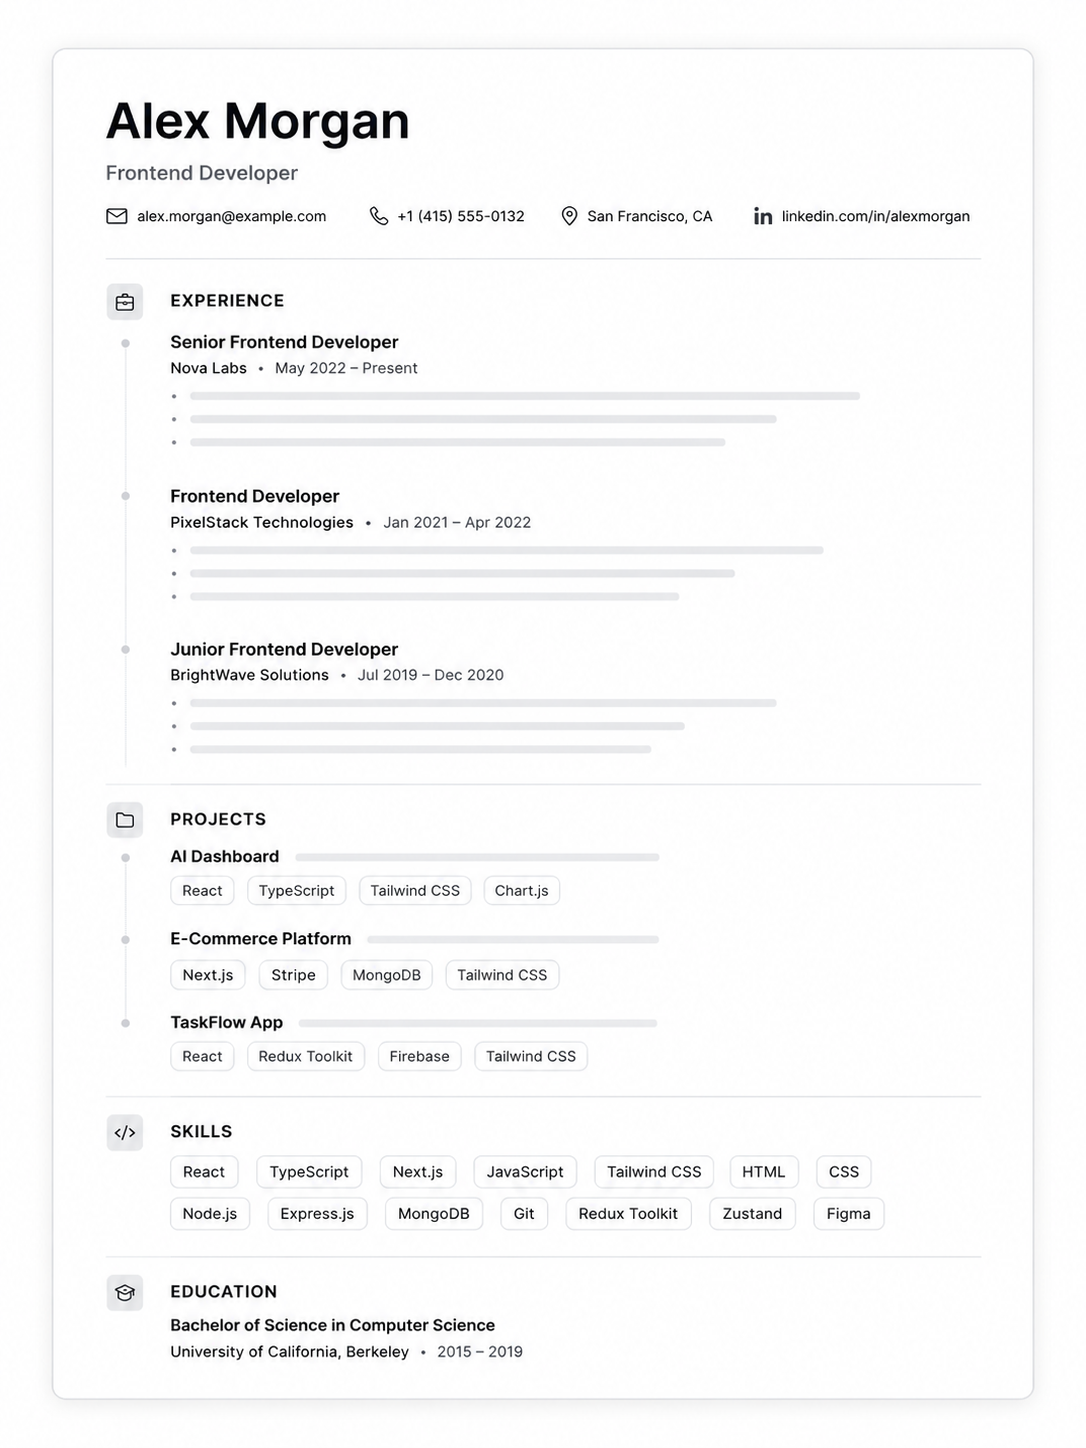
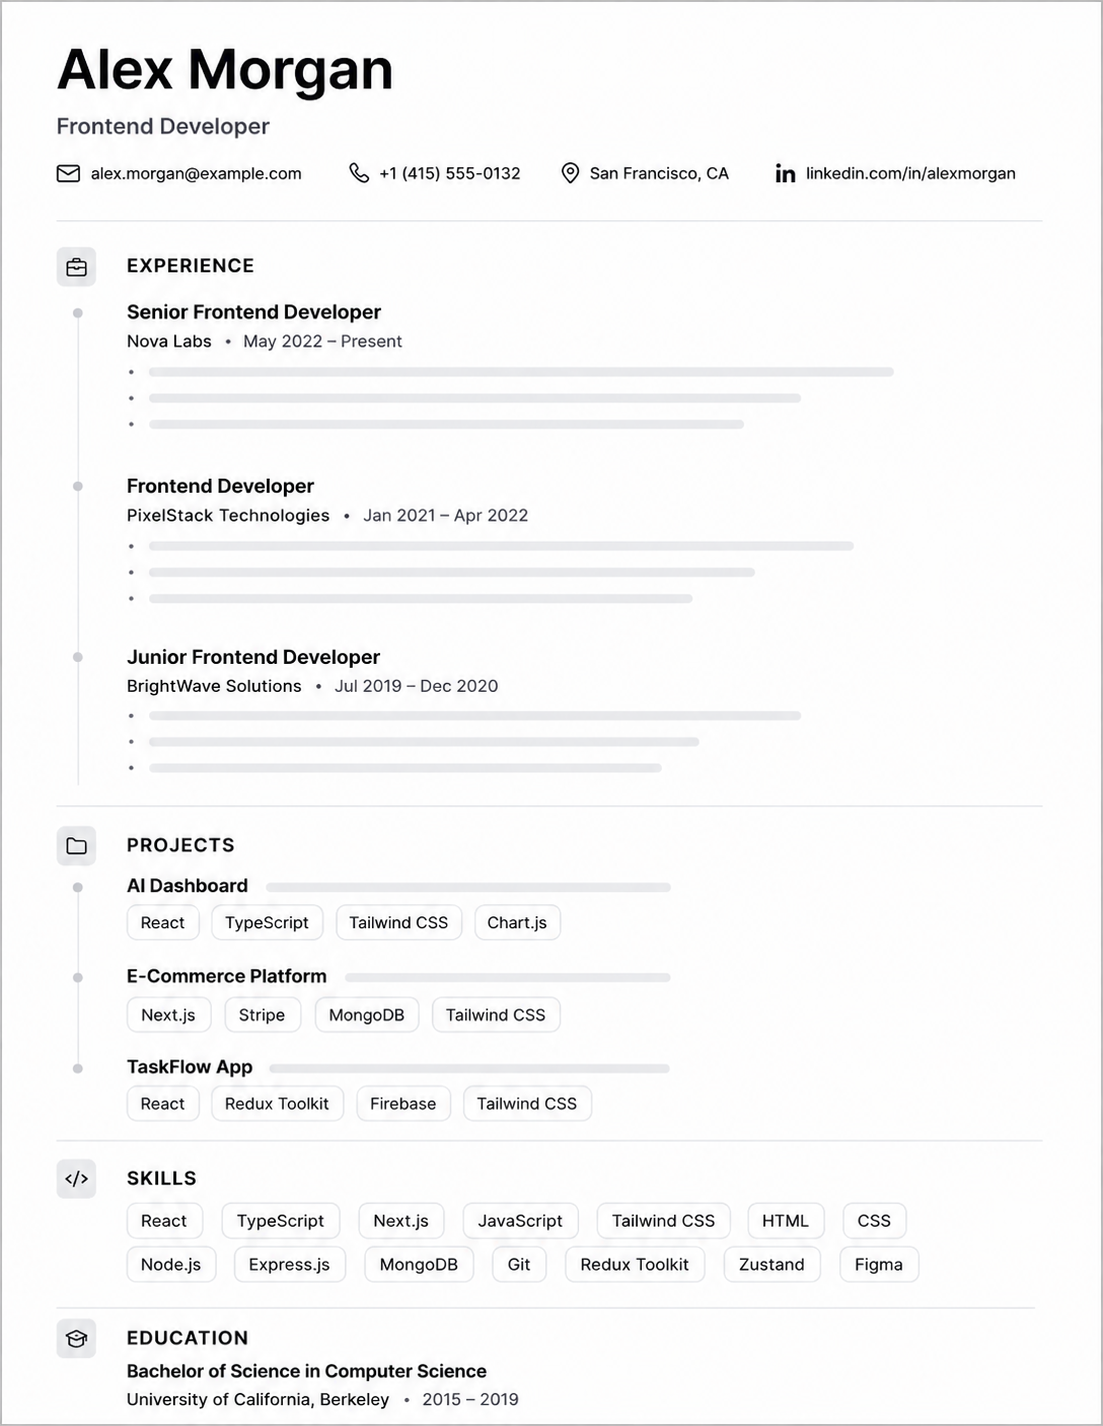
fix: adjust text leading and update resume preview section layout

diff --git a/app_frontend/src/components/Home.tsx b/app_frontend/src/components/Home.tsx
@@ -54,7 +54,7 @@ export default function Home() {
                             <br />
                             Better <span className='text-zinc-400 dark:text-zinc-500 italic'>career.</span>
                         </h1>
-                        <p className='mt-4 max-w-122.5 text-[17px] leading-8 text-zinc-500 dark:text-zinc-400'>Upload your resume to receive an ATS score, recruiter feedback, and AI-powered recommendations that help you stand out before you apply.</p>
+                        <p className='mt-4 max-w-122.5 text-[17px] leading-7 text-zinc-500 dark:text-zinc-400'>Upload your resume to receive an ATS score, recruiter feedback, and AI-powered recommendations that help you stand out before you apply.</p>
                         <div className='mt-6 rounded-2xl border-2 border-dashed border-zinc-200 bg-white/50 dark:border-zinc-800 dark:bg-zinc-900/40 p-8 text-center transition-all duration-200 hover:border-zinc-400 hover:bg-zinc-50/50 dark:hover:border-zinc-700 dark:hover:bg-zinc-900/80'>
                             <div className='mx-auto mb-4 flex h-14 w-14 items-center justify-center rounded-full bg-zinc-50 ring-1 ring-zinc-200 dark:bg-zinc-800 dark:ring-zinc-700'>
                                 <UploadCloud className='h-6 w-6 text-zinc-600 dark:text-zinc-300' />
@@ -103,14 +103,8 @@ export default function Home() {
                                         analyzing
                                     </span>
                                 </div>
-                                <div className='relative h-137.5 overflow-hidden bg-zinc-50 dark:bg-zinc-900/50'>
-                                    <img src='/resume-preview.png' alt='Resume preview skeleton' className='absolute left-1/2 w-full -translate-x-1/2 object-top select-none opacity-90 dark:opacity-75 dark:invert' draggable={false} />
-                                    <div className='absolute inset-0 bg-white/5 dark:bg-black/10' />
-                                    <div className='pointer-events-none absolute inset-0 overflow-hidden'>
-                                        <div className='scan-highlight absolute inset-x-0 h-28'>
-                                            <div className='h-full w-full bg-linear-to-b from-transparent via-white/30 dark:via-white/10 to-transparent' />
-                                        </div>
-                                    </div>
+                                <div className='relative h-144 overflow-hidden bg-zinc-50 dark:bg-zinc-900/50'>
+                                    <img src='/resume-preview.png' alt='Resume preview skeleton' className='absolute left-1/2 w-full -translate-x-1/2 select-none opacity-90 dark:opacity-75 dark:invert' draggable={false} />
                                 </div>
                             </div>
                             <div className='animate-float-a reveal-1 absolute -right-8 -top-6 w-40 rounded-xl border border-zinc-200 bg-white p-3.5 shadow-lg shadow-zinc-200/70 dark:border-zinc-800 dark:bg-zinc-900 dark:shadow-black/40'>
